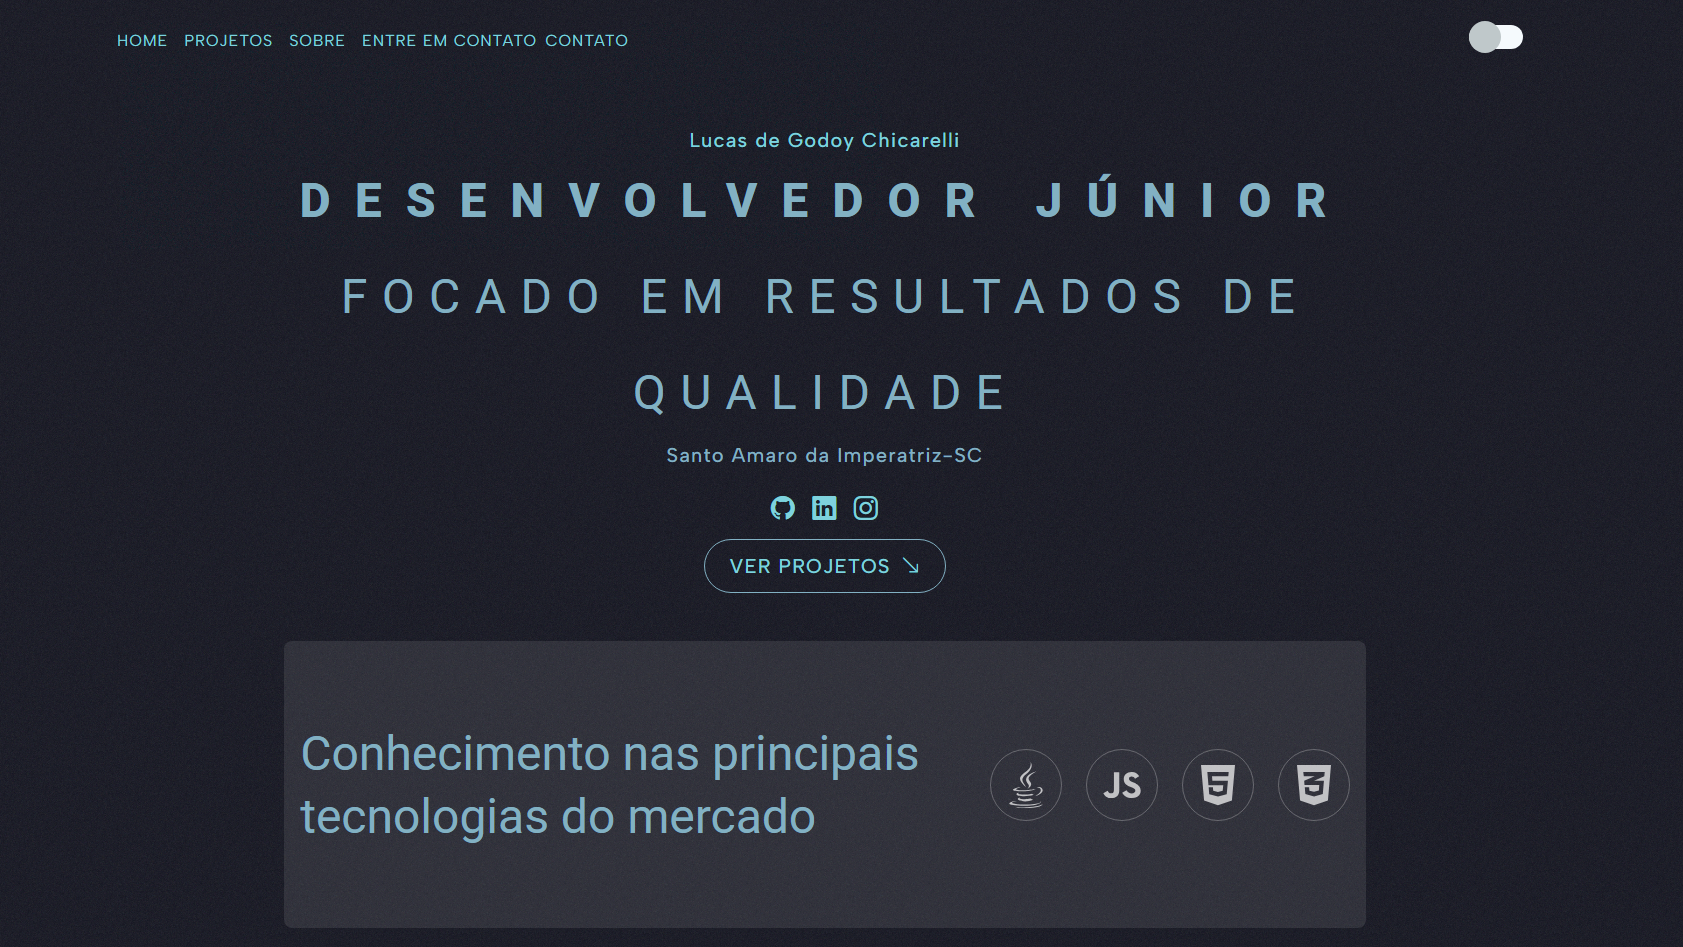
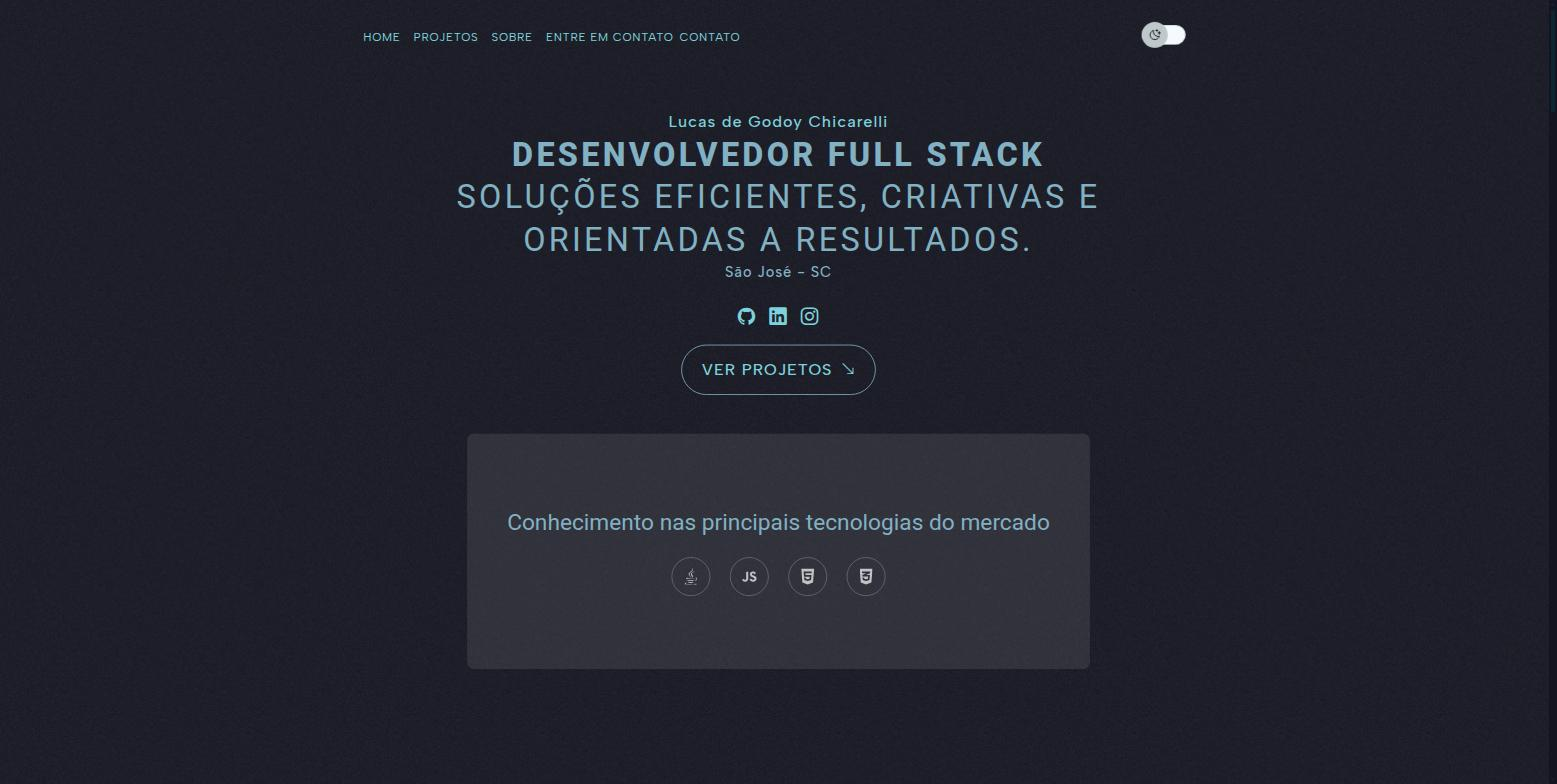
Atualiza preview.png e revisa o README
- Substitui o preview.png por um screenshot atual do hero, refletindo os dados e o layout em vigor
- Documenta o campo Headline e o link do currículo no README, e adiciona init-admin.js na árvore do projeto

diff --git a/readme.md b/readme.md
@@ -46,7 +46,8 @@ portfoliodev/
 ├── admin/
 │   ├── admin.html            # Interface de administração
 │   ├── admin.css             # Estilos do admin
-│   └── admin.js              # Lógica do admin
+│   ├── admin.js              # Lógica do admin
+│   └── init-admin.js         # Carrega o JSON no localStorage na 1ª vez
 ├── assets/
 │   ├── icons/               # Ícones das tecnologias
 │   ├── images/              # Imagens dos projetos
@@ -95,11 +96,13 @@ Abra o arquivo `index.html` em qualquer navegador web.
 #### Dados Pessoais
 
 - Nome completo
-- Título profissional
+- Título profissional e subtítulo
 - Localização
+- Headline (stack em destaque, estilo LinkedIn — aparece em negrito logo abaixo do nome na seção Sobre)
 - Descrição
 - Links das redes sociais
 - Níveis de idiomas
+- Link do currículo
 
 #### Tecnologias
 
